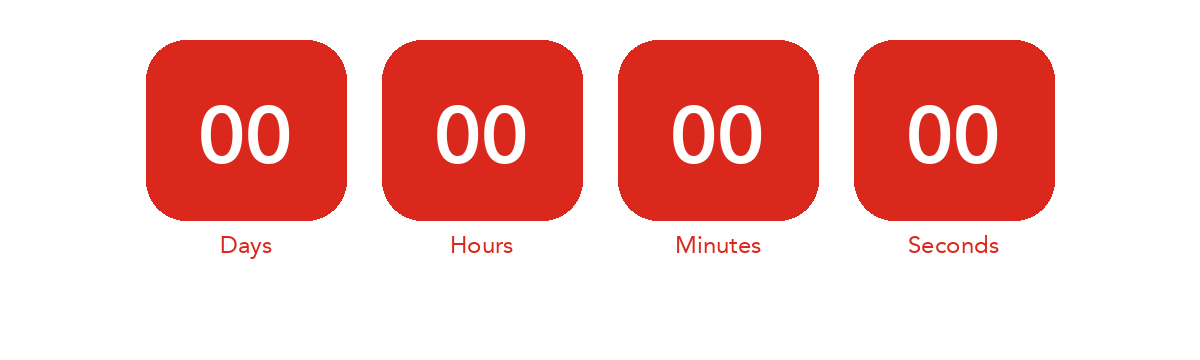
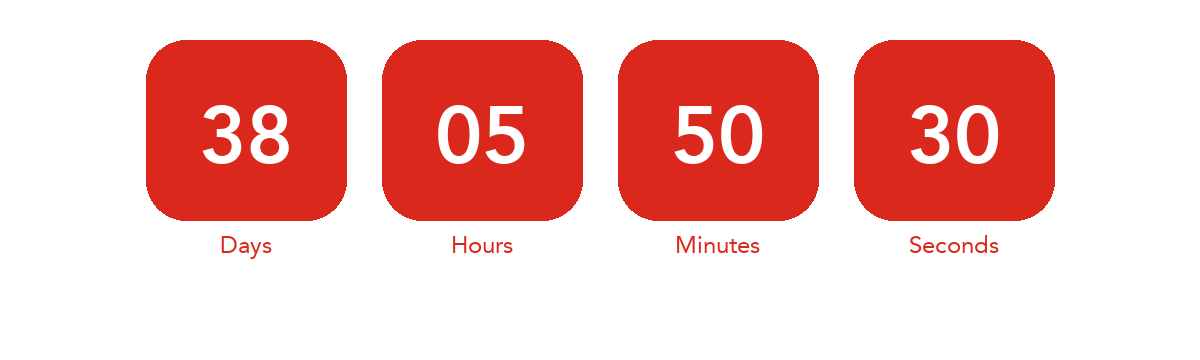
changing to work for climbup

diff --git a/count.py b/count.py
@@ -5,7 +5,7 @@ import os
 BASE_DIR = os.path.dirname(os.path.abspath(__file__))
 FONT_DIR = os.path.join(BASE_DIR, "fonts")
 
-deadline = datetime(2025, 12, 31, 23, 59, tzinfo=timezone.utc)
+deadline = datetime(2026, 9, 1, 0, 0, tzinfo=timezone.utc)
 
 RED = (218, 41, 28, 255)
 WHITE = (255, 255, 255, 255)
